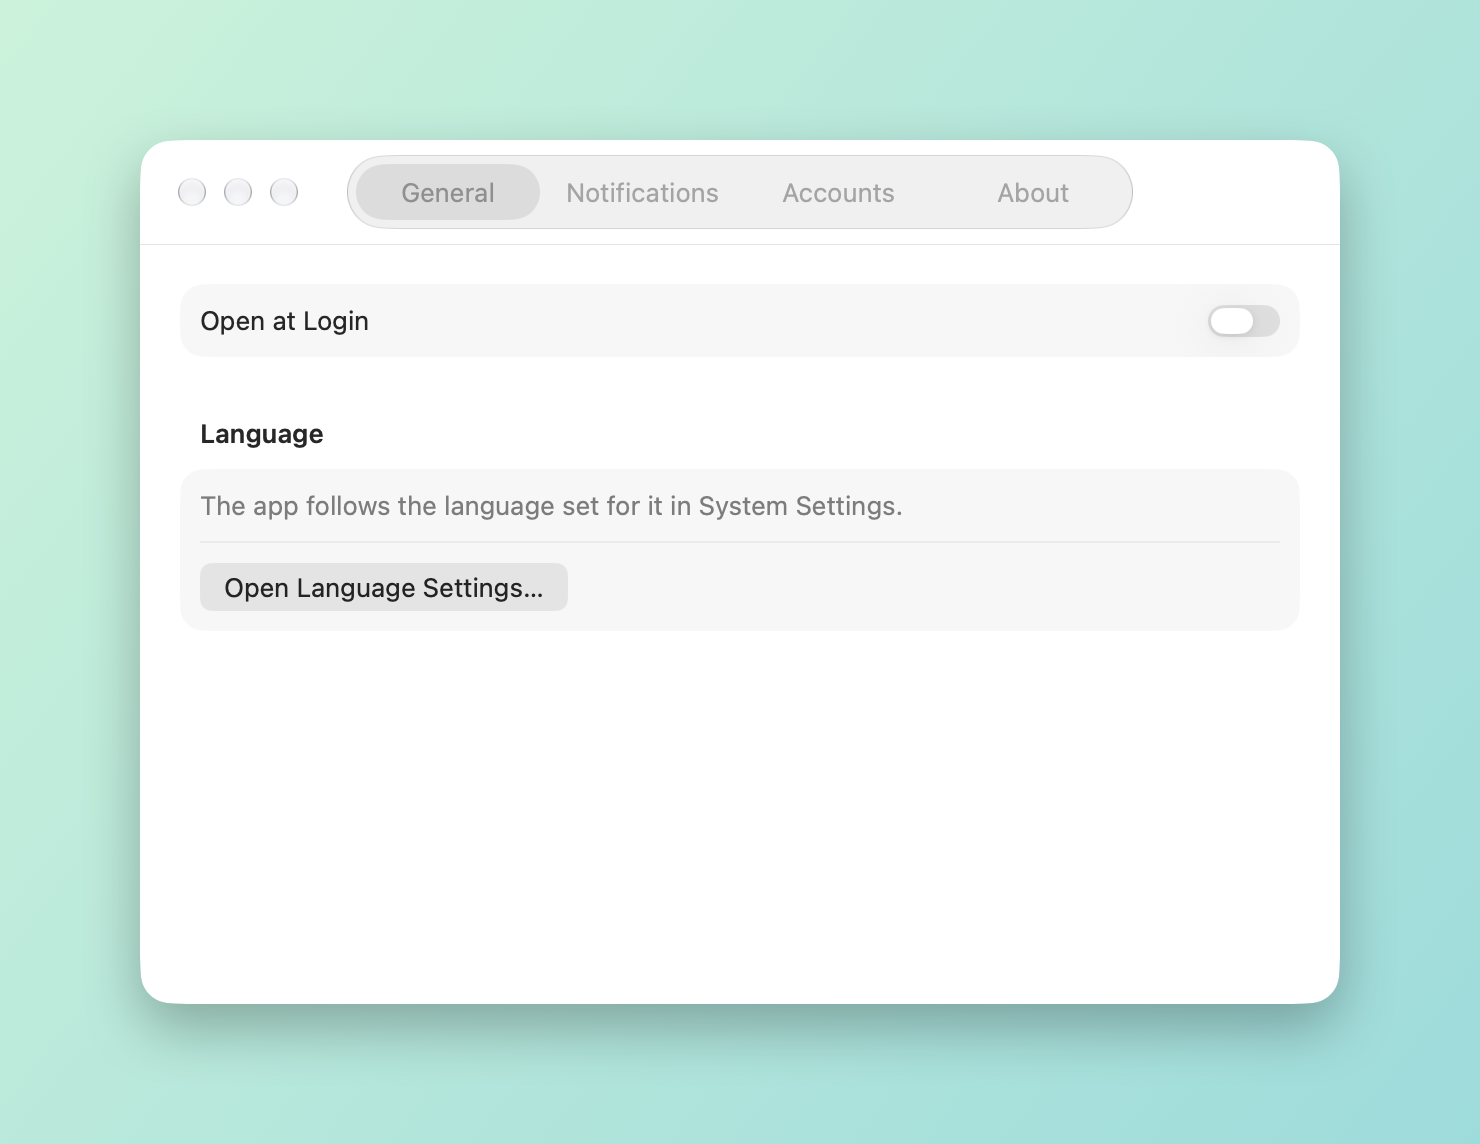
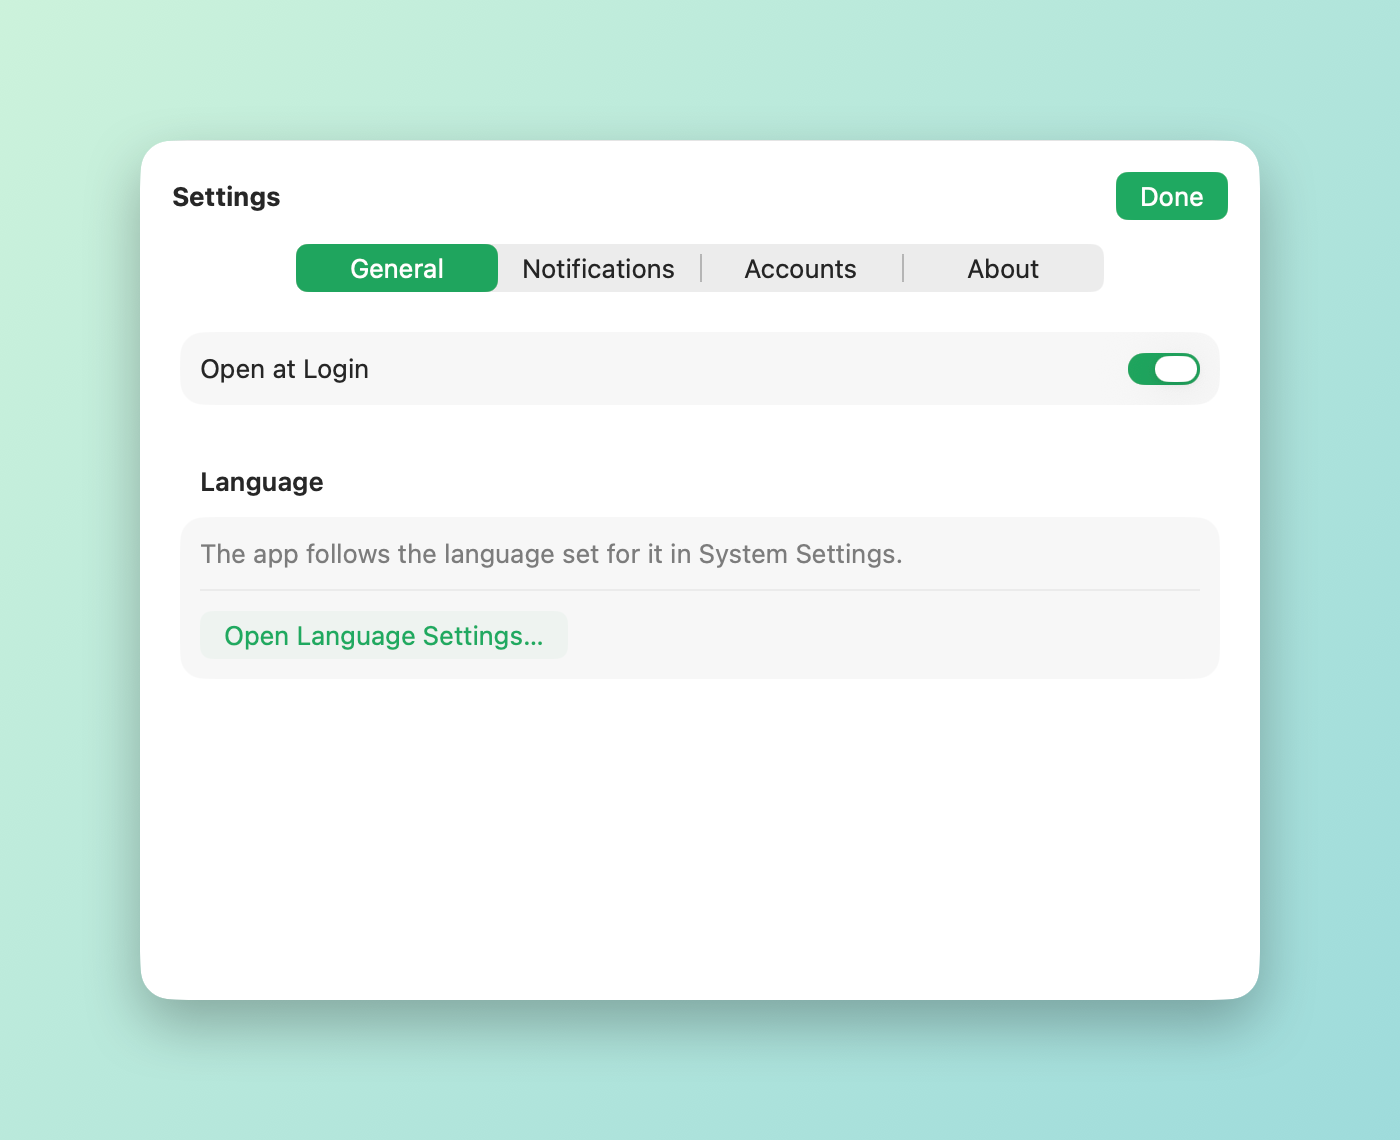
Show Settings as a sheet in the main window

diff --git a/app/Sources/WhatsAppZen/Settings.swift b/app/Sources/WhatsAppZen/Settings.swift
@@ -13,18 +13,50 @@ enum Links {
     }
 }
 
-/// The Settings window (⌘, or the gear in the sidebar).
+/// Settings, shown as a sheet on the main window (⌘, or the sidebar gear).
 struct SettingsView: View {
     @EnvironmentObject var model: AppModel
+    @State private var pane = Pane.general
+
+    private enum Pane: CaseIterable {
+        case general, notifications, accounts, about
+
+        var title: String {
+            switch self {
+            case .general: return L("General")
+            case .notifications: return L("Notifications")
+            case .accounts: return L("Accounts")
+            case .about: return L("About")
+            }
+        }
+    }
 
     var body: some View {
-        TabView {
-            GeneralSettings().tabItem { Label(L("General"), systemImage: "gearshape") }
-            NotificationSettings().tabItem { Label(L("Notifications"), systemImage: "bell.badge") }
-            AccountSettings().tabItem { Label(L("Accounts"), systemImage: "person.2") }
-            AboutSettings().tabItem { Label(L("About"), systemImage: "info.circle") }
+        VStack(spacing: 0) {
+            HStack {
+                Text(L("Settings")).font(.headline)
+                Spacer()
+                Button(L("Done")) { model.showingSettings = false }.keyboardShortcut(.defaultAction)
+            }
+            .padding([.horizontal, .top], 16)
+            Picker(L("Settings"), selection: $pane) {
+                ForEach(Pane.allCases, id: \.self) { Text($0.title) }
+            }
+            .pickerStyle(.segmented)
+            .labelsHidden()
+            .padding(.horizontal, 16)
+            .padding(.top, 12)
+            Group {
+                switch pane {
+                case .general: GeneralSettings()
+                case .notifications: NotificationSettings()
+                case .accounts: AccountSettings()
+                case .about: AboutSettings()
+                }
+            }
+            .frame(maxWidth: .infinity, maxHeight: .infinity)
         }
-        .frame(width: 600, height: 380)
+        .frame(width: 560, height: 430)
         .tint(Theme.accent)
     }
 }
@@ -100,8 +132,8 @@ private struct AccountSettings: View {
             }
             Section {
                 Button(L("Add Account…"), systemImage: "plus") {
+                    model.showingSettings = false
                     model.addAccount()
-                    NSApp.sendAction(#selector(AppDelegate.showMainWindow), to: nil, from: nil)
                 }
             }
         }

diff --git a/app/Sources/WhatsAppZen/AppDelegate.swift b/app/Sources/WhatsAppZen/AppDelegate.swift
@@ -16,7 +16,6 @@ final class AppDelegate: NSObject, NSApplicationDelegate, NSWindowDelegate {
     private var window: NSWindow!
     private var statusItem: NSStatusItem!
     private var panel: MenuPanel!
-    private var settingsWindow: NSWindow?
     private var clickMonitors: [Any] = []
     private var subscriptions = Set<AnyCancellable>()
 
@@ -263,7 +262,7 @@ final class AppDelegate: NSObject, NSApplicationDelegate, NSWindowDelegate {
                 closePanel()
                 showSettings()
                 RunLoop.current.run(until: Date().addingTimeInterval(1))
-                if let view = settingsWindow?.contentView?.superview { save(view, "settings.png") }
+                if let view = window.attachedSheet?.contentView { save(view, "settings.png") }
                 NSApp.terminate(nil)
             }
         }
@@ -334,17 +333,8 @@ final class AppDelegate: NSObject, NSApplicationDelegate, NSWindowDelegate {
     @objc func showMainWindow() { showWindow() }
 
     @objc func showSettings() {
-        if settingsWindow == nil {
-            let window = NSWindow(contentRect: .zero, styleMask: [.titled, .closable], backing: .buffered, defer: false)
-            window.title = L("Settings")
-            window.isReleasedWhenClosed = false
-            window.contentView = NSHostingView(rootView: SettingsView().environmentObject(model))
-            window.center()
-            settingsWindow = window
-        }
-        closePanel()
-        settingsWindow?.makeKeyAndOrderFront(nil)
-        NSApp.activate(ignoringOtherApps: true)
+        showWindow()
+        model.showingSettings = true
     }
 
     /// The standard About panel, with who made the app and where it lives.

diff --git a/app/Sources/WhatsAppZen/MainView.swift b/app/Sources/WhatsAppZen/MainView.swift
@@ -5,6 +5,7 @@ import UniformTypeIdentifiers
 
 struct MainView: View {
     @EnvironmentObject var store: AppStore
+    @EnvironmentObject var model: AppModel
     @State private var newChat = false
 
     private var pairing: Bool {
@@ -30,6 +31,7 @@ struct MainView: View {
             }
         }
         .tint(Theme.accent)
+        .sheet(isPresented: $model.showingSettings) { SettingsView().environmentObject(model) }
         .quickLookPreview($store.previewURL)
         .alert(L("Error"), isPresented: Binding(get: { store.errorText != nil && !pairing }, set: { if !$0 { store.errorText = nil } })) {
             Button(L("OK")) { store.errorText = nil }
@@ -119,7 +121,7 @@ struct Sidebar: View {
                 AccountMenu()
                 Spacer(minLength: 4)
                 Button {
-                    NSApp.sendAction(#selector(AppDelegate.showSettings), to: nil, from: nil)
+                    model.showingSettings = true
                 } label: {
                     Image(systemName: "gearshape").contentShape(Rectangle())
                 }

diff --git a/app/Sources/WhatsAppZen/Accounts.swift b/app/Sources/WhatsAppZen/Accounts.swift
@@ -9,6 +9,8 @@ final class AppModel: ObservableObject {
 
     @Published private(set) var accounts: [AppStore] = []
     @Published private(set) var activeID = ""
+    /// Settings are shown as a sheet on the main window.
+    @Published var showingSettings = false
 
     /// Fires for incoming messages that deserve a notification.
     let incoming = PassthroughSubject<(account: AppStore, chat: String, chatName: String, message: Message), Never>()
